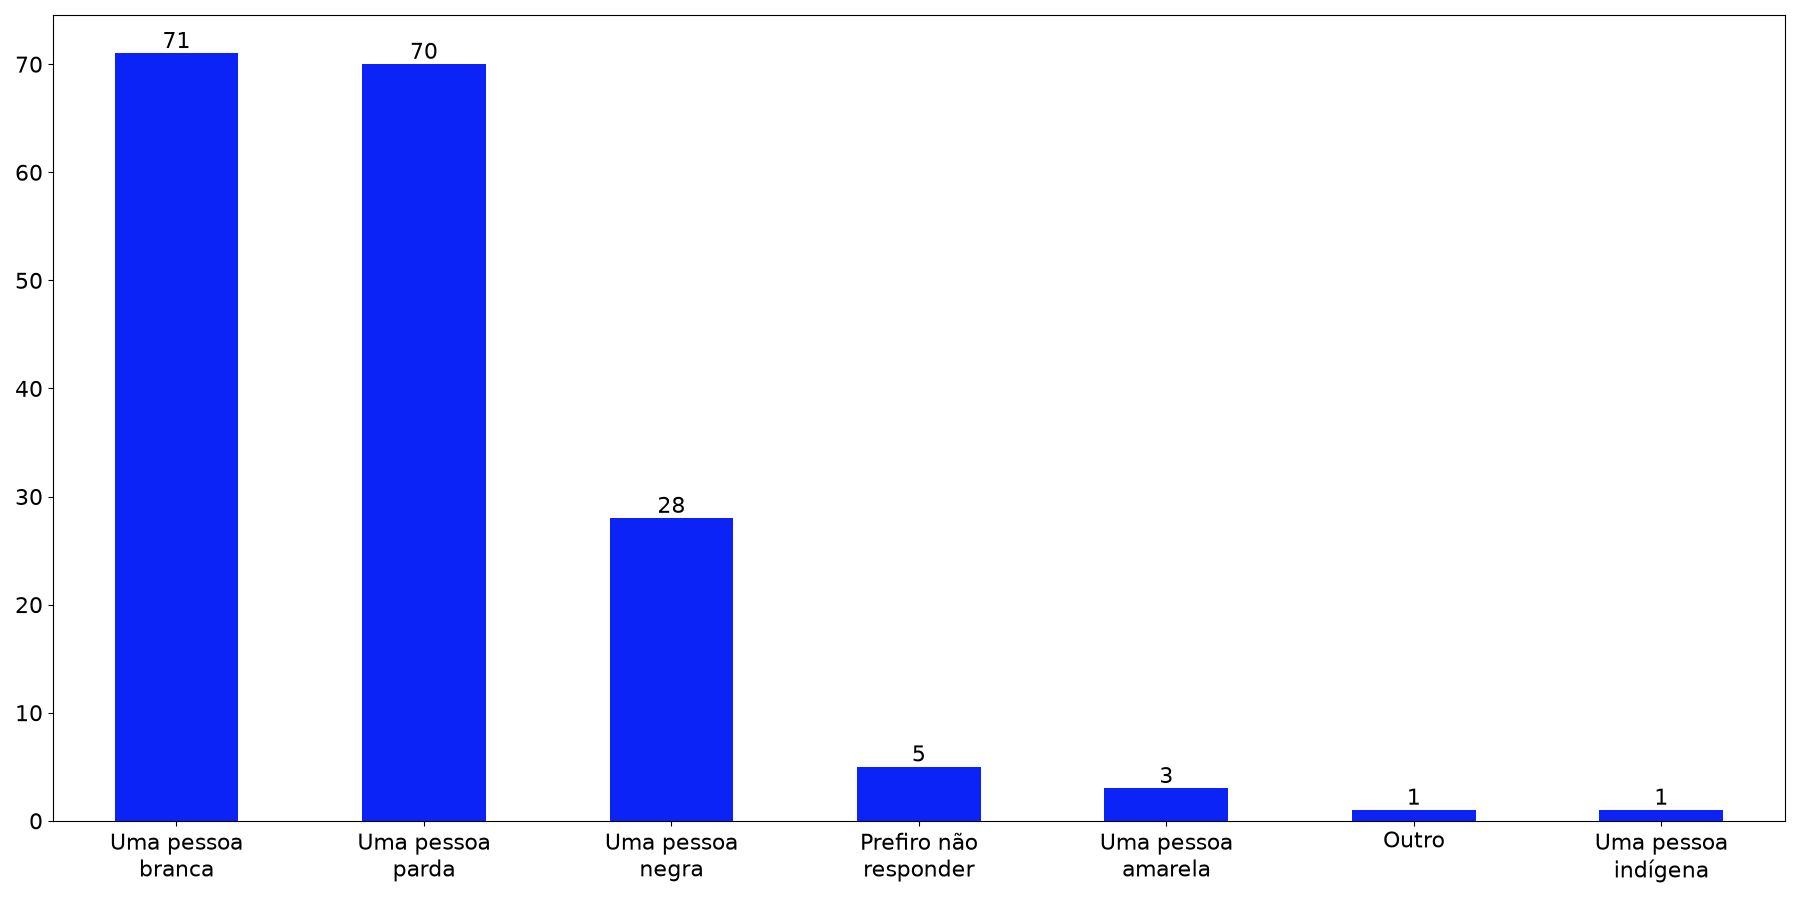
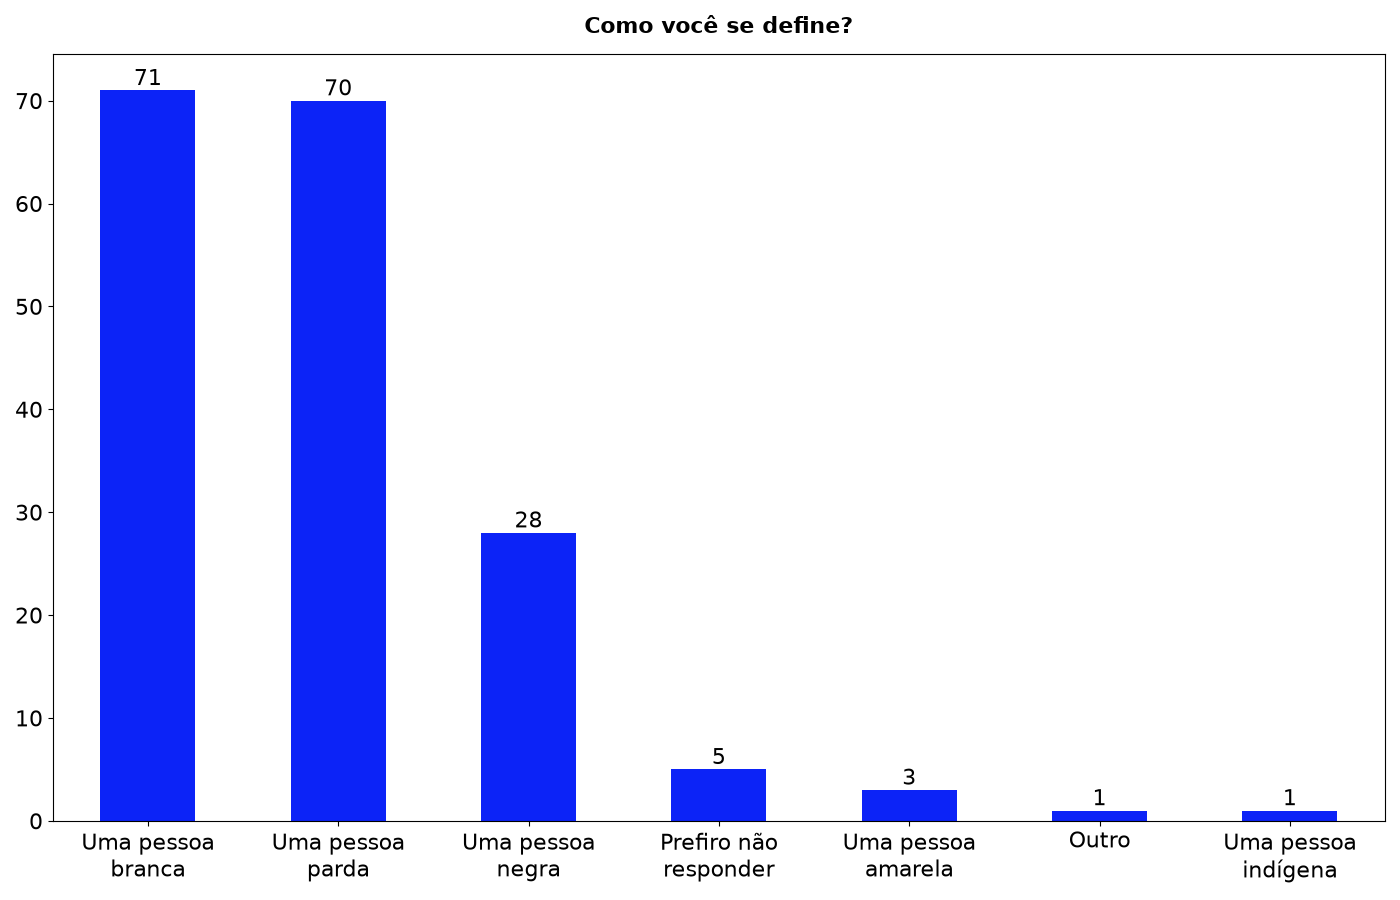
feat: novos gráficos dos anos passados

diff --git a/scripts/csv-to-graphs.py b/scripts/csv-to-graphs.py
@@ -10,6 +10,7 @@ from rich.console import Console
 
 
 COLUMNS_TO_EXPORT = [
+    r'.*UF(\s?).*',
     r'.*python.*',
     r'.*identi.*',
     r'.*define.*',
@@ -28,17 +29,10 @@ def get_columns_to_export(csv: DataFrame):
 
 
 @cli.command()
-def main(csv: Path, year: int | None = None):
+def main(csv: Path, year: int):
     # Reading the CSV file
     console.print(f'Reading the file [bold]{csv}[/bold]...')
     csv_content = read_csv(csv)
-
-    # Reading the year from the CSV file name if not provided
-    if not year:
-        if re.match(r'\d{4}', csv.name):
-            year = int(re.search(r'\d{4}', csv.name).group())
-        else:
-            year = date.today().year
 
     # Creating the export folder
     export_path = Path(f'graphs/{year}')
@@ -57,16 +51,24 @@ def main(csv: Path, year: int | None = None):
 
         # Formatting the labels to fit in the graph
         labels = [
-            textwrap.fill(str(label), width=15)
+            textwrap.fill(str(label), width=13)
             for label in count.index
         ]
 
         plot = count.plot(
             kind='bar',
             xlabel='',
-            figsize=(18, 9),
+            figsize=(len(count) * 2, 9),
             fontsize=16,
             color="#0C23F7",
+        )
+        plot.set_title(
+            label=column,
+            pad=15,
+            fontdict={
+                'fontsize': 16,
+                'fontweight': 'bold',
+            }
         )
         plot.bar_label(
             plot.containers[0],
